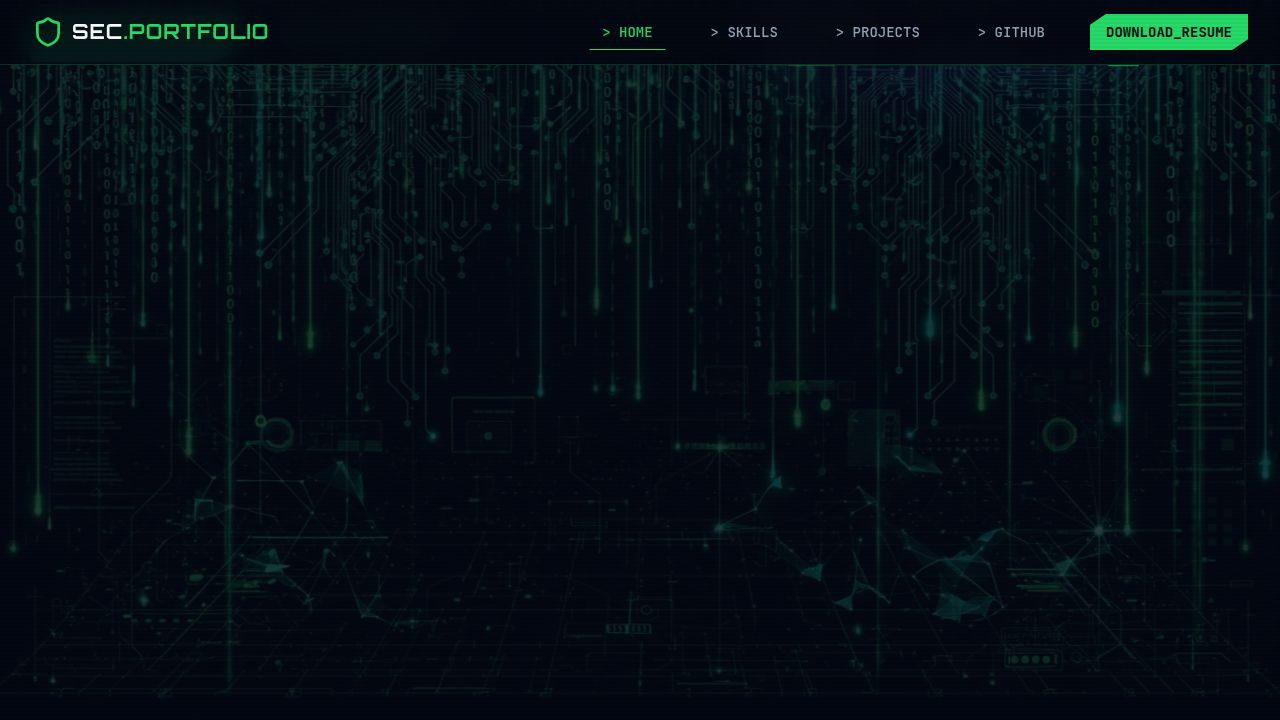
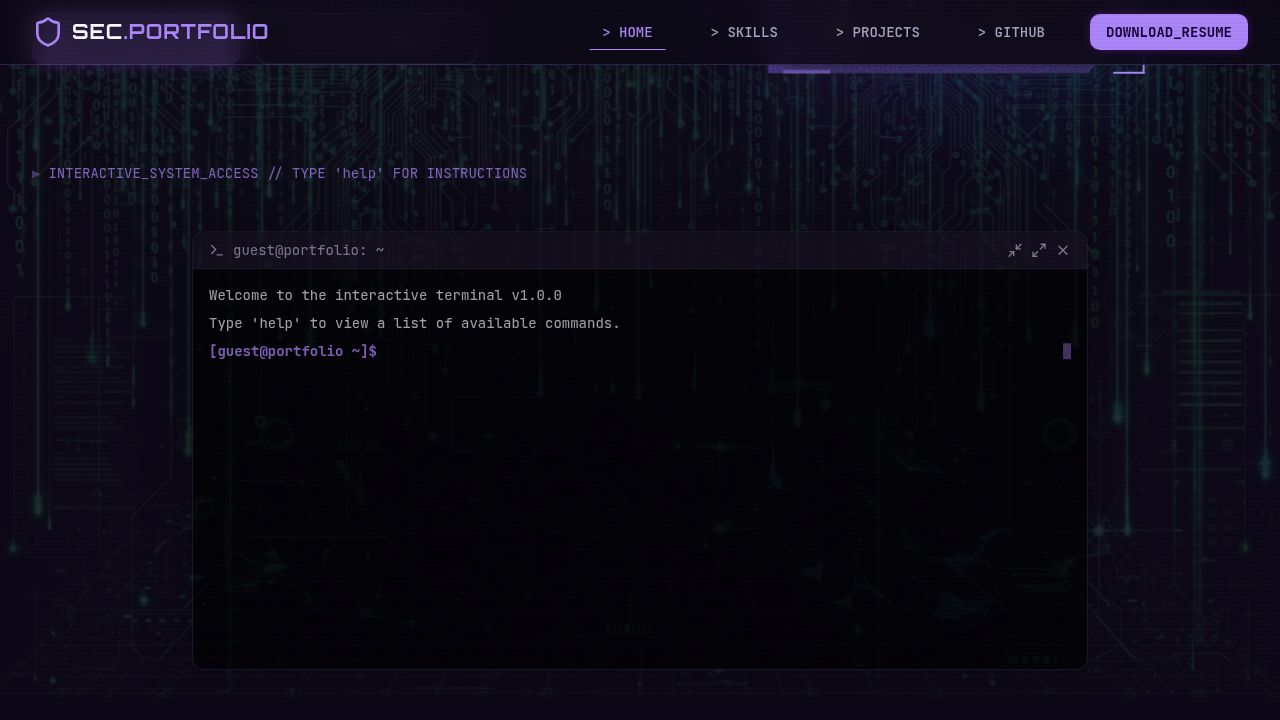
Update website theme and styling to a new color scheme
Adjusted CSS variables for background, foreground, primary, and accent colors from neon green to purple and violet hues. Modified border-radius for softer, rounded corners. Updated background gradients and shadows for a more ambient aesthetic. Changed button and card styling, and updated interactive terminal appearance.

Replit-Commit-Author: Agent
Replit-Commit-Session-Id: d9829147-8b4d-47b9-a2e0-29cf5eb42337
Replit-Commit-Checkpoint-Type: full_checkpoint
Replit-Commit-Event-Id: 7538f571-b64e-47b4-bf37-472f55a6549b
Replit-Commit-Screenshot-Url: https://storage.googleapis.com/screenshot-production-us-central1/c8f694e6-4649-4a96-990e-c1d96851a21d/d9829147-8b4d-47b9-a2e0-29cf5eb42337/CDLniZR
Replit-Helium-Checkpoint-Created: true

diff --git a/client/src/pages/Home.tsx b/client/src/pages/Home.tsx
@@ -6,7 +6,6 @@ import { InteractiveTerminal } from "@/components/ui/InteractiveTerminal";
 import { CyberPortrait } from "@/components/ui/CyberPortrait";
 import { motion } from "framer-motion";
 import { Terminal, Award, BookOpen, ChevronRight, ShieldCheck } from "lucide-react";
-import heroBg from "@assets/generated_images/cybersecurity_abstract_background.png";
 import { Link } from "wouter";
 
 import expresswayLogo from "@assets/image_1770021462490.png";
@@ -16,17 +15,6 @@ import profilePic from "@assets/image_1773977700491.png";
 export function Home() {
   return (
     <div className="min-h-screen bg-background relative overflow-hidden">
-      {/* Background Image Overlay */}
-      <div 
-        className="fixed inset-0 z-0 opacity-20 pointer-events-none mix-blend-screen"
-        style={{ 
-          backgroundImage: `url(${heroBg})`,
-          backgroundSize: 'cover',
-          backgroundPosition: 'center',
-          backgroundRepeat: 'no-repeat'
-        }}
-      />
-      
       {/* Scanline Effect */}
       <div className="scanline"></div>
 
@@ -50,31 +38,29 @@ export function Home() {
                   <span className="text-sm font-mono text-muted-foreground">terminal@user:~</span>
                 </div>
                 <div className="font-mono text-sm space-y-2">
-                  <p className="text-green-500">$ ./whoami</p>
+                  <p className="text-primary">$ ./whoami</p>
                   <p className="text-foreground pl-4">
                     Name: Syed Shayan Ali<br/>
                     Role: Cybersecurity Analyst<br/>
                     Location: United Arab Emirates<br/>
                     Focus: Red Teaming, SOC Operations
                   </p>
-                  <p className="text-green-500 mt-4">$ ./list_skills</p>
+                  <p className="text-primary mt-4">$ ./list_skills</p>
                   <div className="pl-4 grid grid-cols-2 gap-x-4 text-foreground/80">
                     <span>- Python</span>
                     <span>- Linux</span>
                     <span>- Wireshark</span>
                     <span>- Metasploit</span>
                   </div>
-                  <p className="text-green-500 mt-4 animate-pulse">$ _</p>
+                  <p className="text-primary mt-4 animate-pulse">$ _</p>
                 </div>
               </div>
               
               <div className="flex flex-wrap gap-4">
-                <Link href="/projects">
-                  <span className="cursor-pointer inline-block px-8 py-3 bg-primary text-background font-mono font-bold hover:bg-white transition-colors clip-path-polygon" style={{ clipPath: "polygon(10% 0, 100% 0, 100% 70%, 90% 100%, 0 100%, 0 30%)" }}>
-                    VIEW_OPERATIONS
-                  </span>
+                <Link href="/projects" className="cursor-pointer inline-block px-8 py-3 bg-primary text-primary-foreground rounded-lg font-mono font-bold hover:bg-primary/90 transition-colors shadow-[0_0_15px_rgba(147,51,234,0.3)] hover:shadow-[0_0_25px_rgba(147,51,234,0.5)]">
+                  VIEW_OPERATIONS
                 </Link>
-                <a href="mailto:shayanaliwis@gmail.com" className="inline-block px-8 py-3 border border-primary text-primary font-mono font-bold hover:bg-primary/10 transition-colors clip-path-polygon" style={{ clipPath: "polygon(10% 0, 100% 0, 100% 70%, 90% 100%, 0 100%, 0 30%)" }}>
+                <a href="mailto:shayanaliwis@gmail.com" className="inline-block px-8 py-3 border-2 border-primary text-primary rounded-lg font-mono font-bold hover:bg-primary/10 transition-colors">
                   INITIATE_CONTACT
                 </a>
               </div>

diff --git a/client/src/index.css b/client/src/index.css
@@ -62,45 +62,45 @@
 }
 
 :root {
-  /* Dark Mode Default for Cyber Theme */
-  --background: 224 71% 4%; /* Deep dark blue/black */
-  --foreground: 210 40% 98%;
+  /* Cybersafe Theme Colors */
+  --background: 255 45% 6%;
+  --foreground: 0 0% 100%;
 
-  --card: 222 47% 11%;
-  --card-foreground: 210 40% 98%;
+  --card: 255 30% 12%;
+  --card-foreground: 0 0% 100%;
 
-  --popover: 222 47% 11%;
-  --popover-foreground: 210 40% 98%;
+  --popover: 255 30% 12%;
+  --popover-foreground: 0 0% 100%;
 
-  --primary: 142 70% 50%; /* Neon Green */
-  --primary-foreground: 144 100% 10%;
+  --primary: 263 85% 55%; /* Rich Purple */
+  --primary-foreground: 0 0% 100%;
 
-  --secondary: 217 19% 27%;
-  --secondary-foreground: 210 40% 98%;
+  --secondary: 255 30% 20%;
+  --secondary-foreground: 0 0% 100%;
 
-  --muted: 217 19% 27%;
-  --muted-foreground: 215 20% 65%;
+  --muted: 255 20% 25%;
+  --muted-foreground: 255 20% 75%;
 
-  --accent: 262 80% 50%; /* Cyber Purple Accent */
-  --accent-foreground: 210 40% 98%;
+  --accent: 280 85% 55%; /* Violet Accent */
+  --accent-foreground: 0 0% 100%;
 
   --destructive: 0 62% 30%;
   --destructive-foreground: 210 40% 98%;
 
-  --border: 217 19% 27%;
-  --input: 217 19% 27%;
-  --ring: 142 70% 50%;
+  --border: 255 25% 20%;
+  --input: 255 25% 20%;
+  --ring: 263 85% 55%;
 
-  --radius: 0rem; /* Sharp edges for cyber look */
+  --radius: 1rem; /* Rounded corners for the modern cyber look */
   
-  --sidebar: 222 47% 11%;
-  --sidebar-foreground: 210 40% 98%;
-  --sidebar-primary: 142 70% 50%;
-  --sidebar-primary-foreground: 144 100% 10%;
-  --sidebar-accent: 262 80% 50%;
-  --sidebar-accent-foreground: 210 40% 98%;
-  --sidebar-border: 217 19% 27%;
-  --sidebar-ring: 142 70% 50%;
+  --sidebar: 255 30% 12%;
+  --sidebar-foreground: 0 0% 100%;
+  --sidebar-primary: 263 85% 55%;
+  --sidebar-primary-foreground: 0 0% 100%;
+  --sidebar-accent: 280 85% 55%;
+  --sidebar-accent-foreground: 0 0% 100%;
+  --sidebar-border: 255 25% 20%;
+  --sidebar-ring: 263 85% 55%;
 }
 
 @layer base {
@@ -110,7 +110,10 @@
   body {
     @apply font-sans antialiased bg-background text-foreground;
     background-image: 
-      linear-gradient(rgba(13, 17, 23, 0.9), rgba(13, 17, 23, 0.95));
+      radial-gradient(ellipse at 50% 0%, rgba(110, 44, 243, 0.25), transparent 60%),
+      radial-gradient(ellipse at 100% 100%, rgba(59, 130, 246, 0.15), transparent 50%),
+      radial-gradient(ellipse at 0% 100%, rgba(147, 51, 234, 0.15), transparent 50%);
+    background-attachment: fixed;
   }
   
   h1, h2, h3, h4, h5, h6 {

diff --git a/client/src/components/layout/Navbar.tsx b/client/src/components/layout/Navbar.tsx
@@ -17,7 +17,7 @@ export function Navbar() {
   const toggleMenu = () => setIsOpen(!isOpen);
 
   return (
-    <nav className="fixed top-0 left-0 right-0 z-40 border-b border-primary/20 bg-background/90 backdrop-blur-md">
+    <nav className="fixed top-0 left-0 right-0 z-40 border-b border-primary/20 bg-background/80 backdrop-blur-md">
       <div className="max-w-7xl mx-auto px-4 sm:px-6 lg:px-8">
         <div className="flex items-center justify-between h-16">
           <div className="flex-shrink-0">
@@ -59,8 +59,7 @@ export function Navbar() {
               <a 
                 href="/resume.pdf" 
                 target="_blank"
-                className="px-4 py-2 text-sm font-mono font-bold text-background bg-primary hover:bg-accent hover:text-white transition-colors clip-path-polygon"
-                style={{ clipPath: "polygon(10% 0, 100% 0, 100% 70%, 90% 100%, 0 100%, 0 30%)" }}
+                className="px-4 py-2 text-sm font-mono font-bold text-primary-foreground bg-primary hover:bg-primary/90 transition-colors rounded-md shadow-[0_0_10px_rgba(147,51,234,0.3)] hover:shadow-[0_0_15px_rgba(147,51,234,0.5)]"
               >
                 DOWNLOAD_RESUME
               </a>
@@ -112,7 +111,7 @@ export function Navbar() {
               ))}
               <a 
                 href="/resume.pdf"
-                className="block w-full text-center mt-4 px-4 py-3 text-base font-mono font-bold text-background bg-primary hover:bg-accent"
+                className="block w-full text-center mt-4 px-4 py-3 text-base font-mono font-bold text-primary-foreground bg-primary hover:bg-primary/90 rounded-md"
               >
                 DOWNLOAD_RESUME
               </a>

diff --git a/client/src/pages/Skills.tsx b/client/src/pages/Skills.tsx
@@ -50,14 +50,8 @@ export function Skills() {
                 initial={{ opacity: 0, y: 20 }}
                 animate={{ opacity: 1, y: 0 }}
                 transition={{ delay: idx * 0.2 }}
-                className="bg-card/30 border border-primary/10 p-8 rounded-lg relative"
+                className="bg-card/40 border border-primary/20 p-8 rounded-xl relative shadow-[0_4px_20px_rgba(0,0,0,0.3)] hover:border-primary/40 transition-colors"
               >
-                {/* Decorative corner markers */}
-                <div className="absolute top-0 left-0 w-4 h-4 border-t-2 border-l-2 border-primary"></div>
-                <div className="absolute top-0 right-0 w-4 h-4 border-t-2 border-r-2 border-primary"></div>
-                <div className="absolute bottom-0 left-0 w-4 h-4 border-b-2 border-l-2 border-primary"></div>
-                <div className="absolute bottom-0 right-0 w-4 h-4 border-b-2 border-r-2 border-primary"></div>
-
                 <h3 className="text-2xl font-display font-bold text-primary mb-8 tracking-widest border-b border-primary/20 pb-4 inline-block">
                   {category.title}
                 </h3>

diff --git a/client/src/components/ui/InteractiveTerminal.tsx b/client/src/components/ui/InteractiveTerminal.tsx
@@ -163,7 +163,7 @@ export function InteractiveTerminal() {
   };
 
   return (
-    <div className="w-full max-w-4xl mx-auto my-12 font-mono text-sm shadow-[0_0_50px_rgba(0,0,0,0.5)] rounded-lg overflow-hidden border border-primary/20 bg-black/90 backdrop-blur">
+    <div className="w-full max-w-4xl mx-auto my-12 font-mono text-sm shadow-[0_4px_30px_rgba(110,44,243,0.2)] rounded-xl overflow-hidden border border-primary/30 bg-card/80 backdrop-blur-md">
       {/* Terminal Title Bar */}
       <div className="bg-muted/50 px-4 py-2 flex items-center justify-between border-b border-primary/10 select-none">
         <div className="flex items-center gap-2 text-muted-foreground">

diff --git a/client/src/components/ui/ProjectCard.tsx b/client/src/components/ui/ProjectCard.tsx
@@ -16,7 +16,7 @@ export function ProjectCard({ title, description, tags, link, github, image }: P
   return (
     <motion.div
       whileHover={{ scale: 1.02 }}
-      className="cyber-border bg-card/50 backdrop-blur-sm h-full flex flex-col overflow-hidden"
+      className="border border-primary/20 rounded-xl bg-card/60 backdrop-blur-sm h-full flex flex-col overflow-hidden shadow-[0_4px_20px_rgba(0,0,0,0.4)] hover:border-primary/50 transition-colors"
     >
       {image && (
         <div className="h-48 overflow-hidden border-b border-primary/20 relative group">
